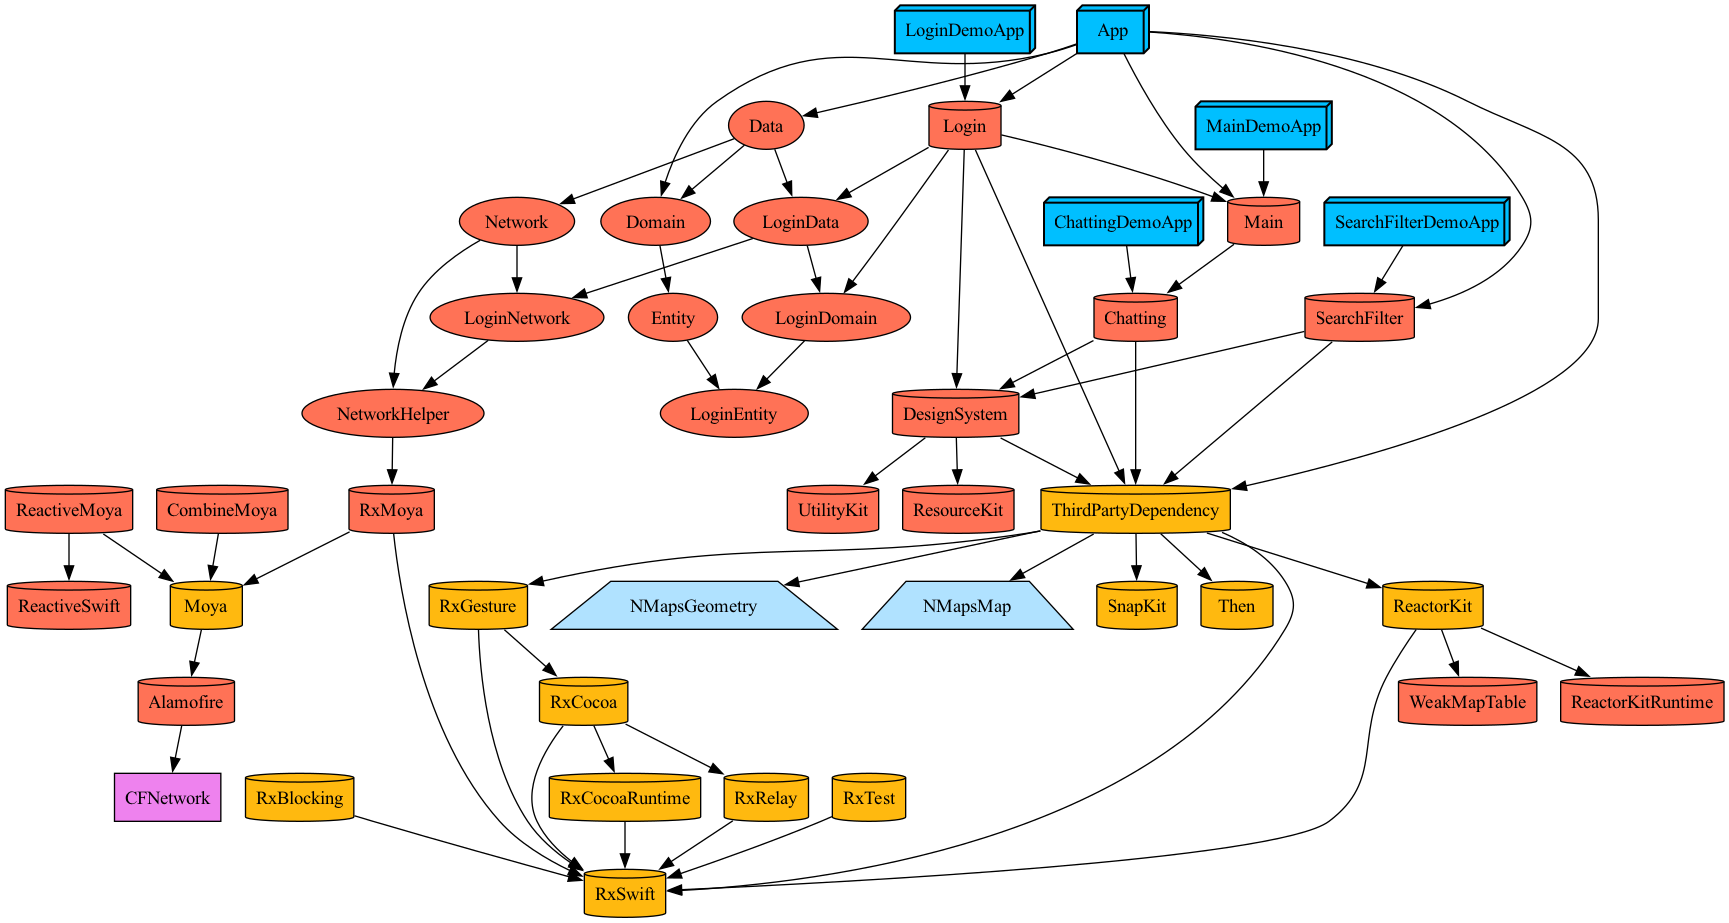
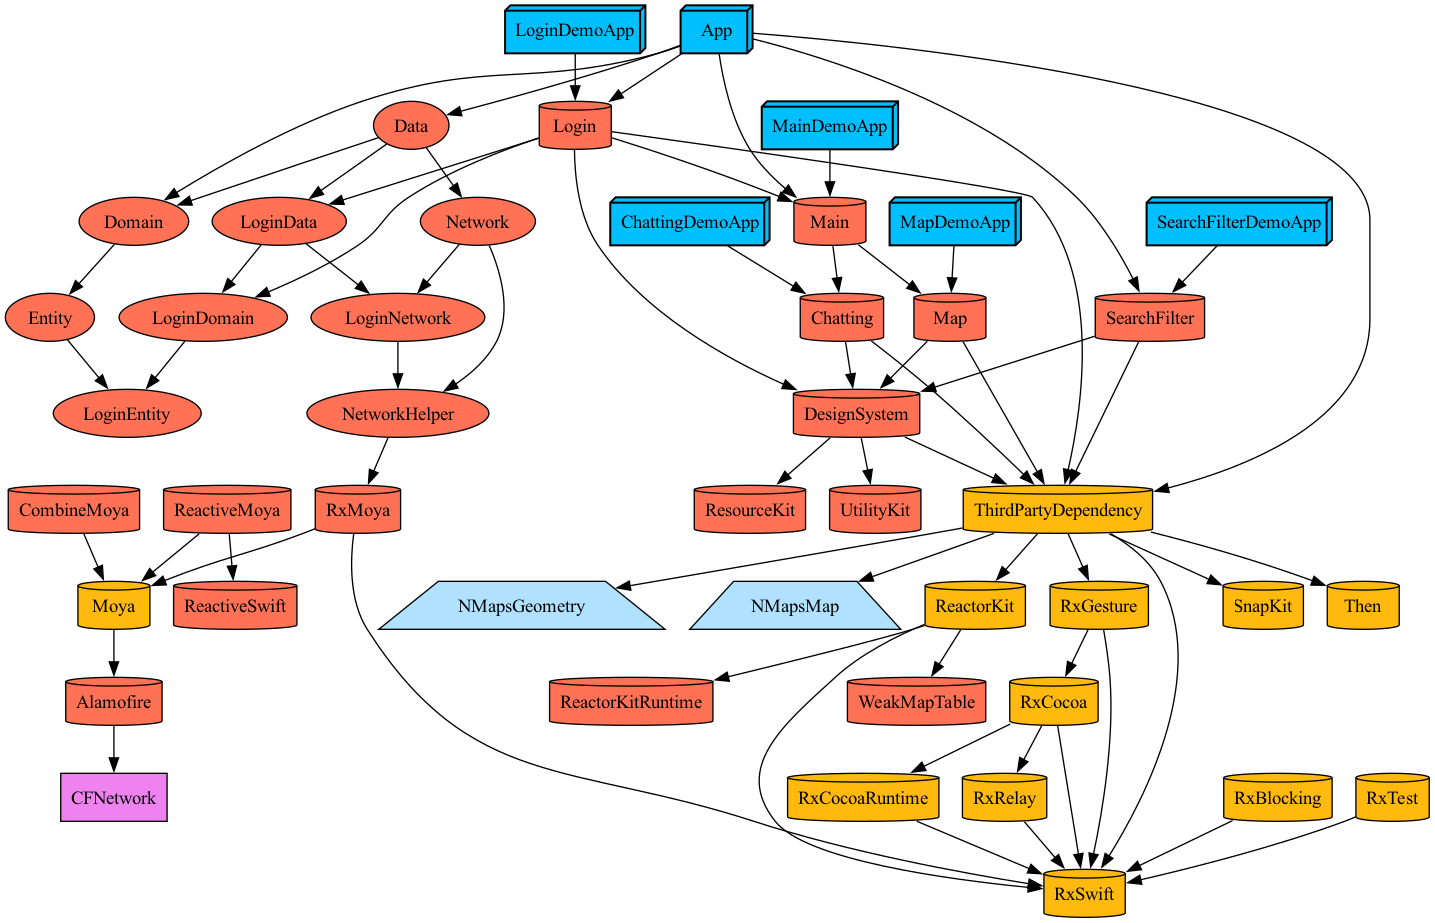
[Setting] Map 모듈 추가

diff --git a/Feature/Map/Sources/MapView.swift b/Feature/Map/Sources/MapView.swift
@@ -1,0 +1,60 @@
+//
+//  MapView.swift
+//  Map
+//
+//  Created by 구본의 on 2023/12/28.
+//
+
+import UIKit
+
+import ResourceKit
+import UtilityKit
+
+import SnapKit
+import Then
+
+final class MapView: UIView {
+	// MARK: - TextSet
+	private enum TextSet {
+		static let titleText: String = "Map View"
+	}
+	
+	// MARK: - UI Property
+	private let titleLabel: UILabel = UILabel().then {
+		$0.text = TextSet.titleText
+		$0.font = AppTheme.Font.Bold_24
+	}
+	
+	// MARK: - Iitialize
+	override init(frame: CGRect) {
+		super.init(frame: frame)
+		setupConfigures()
+		setupViews()
+	}
+	
+	required init?(coder: NSCoder) {
+		fatalError("init(coder:) has not been implemented")
+	}
+}
+
+extension MapView: Viewable {
+	func setupConfigures() {
+		backgroundColor = AppTheme.Color.white
+	}
+	
+	func setupViews() {
+		addSubview(titleLabel)
+		
+		setupConstraints()
+	}
+	
+	func setupConstraints() {
+		titleLabel.snp.makeConstraints { make in
+			make.center.equalToSuperview()
+		}
+	}
+	
+	func setupBinds() {
+		
+	}
+}

diff --git a/Feature/Map/Project.swift b/Feature/Map/Project.swift
@@ -2,23 +2,24 @@
 //  Project.swift
 //  ProjectDescriptionHelpers
 //
-//  Created by 구본의 on 2023/12/26.
+//  Created by 구본의 on 2023/12/28.
 //
 
 import ProjectDescription
 import ProjectDescriptionHelpers
 
-import FeaturePlugin
+import DesignSystemPlugin
+import ThirdPartyDependencyPlugin
 
-let projectName: String = "Main"
+let projectName: String = "Map"
 let iOSTargetVersion: String = "16.0"
 
 let project = Project.makeFrameworkProject(
   name: projectName,
   iOSTargetVersion: iOSTargetVersion,
   dependencies: [
-    .Feature.Chatting.Main,
-    .Feature.Map.Main
+    .ThirdParty.Main,
+    .DesignSystem.Main
   ],
   isDynamic: false,
   needTestTarget: false,

diff --git a/Plugins/FeaturePlugin/ProjectDescriptionHelpers/Feature+Project.swift b/Plugins/FeaturePlugin/ProjectDescriptionHelpers/Feature+Project.swift
@@ -14,6 +14,7 @@ extension TargetDependency {
     public struct SearchFilter { }
     public struct Main { }
     public struct Chatting { }
+    public struct Map { }
   }
 }
 
@@ -67,4 +68,17 @@ public extension TargetDependency.Feature.Chatting {
   }
   
   static let Main = project(name: "Chatting")
+}
+
+public extension TargetDependency.Feature.Map {
+  static let folderName: String = "Map"
+  
+  static func project(name: String) -> TargetDependency {
+    return .project(
+      target: "\(name)",
+      path: .relativeToRoot("Feature/\(folderName)")
+    )
+  }
+  
+  static let Main = project(name: "Map")
 }

diff --git a/Feature/Map/DemoApp/Sources/MapAppDelegate.swift b/Feature/Map/DemoApp/Sources/MapAppDelegate.swift
@@ -1,0 +1,25 @@
+//
+//  MapAppDelegate.swift
+//  Map
+//
+//  Created by 구본의 on 2023/12/28.
+//
+
+import UIKit
+
+import Map
+
+@main
+class ChattingAppDelegate: UIResponder, UIApplicationDelegate {
+	var window: UIWindow?
+	func application(
+		_ application: UIApplication,
+		didFinishLaunchingWithOptions launchOptions: [UIApplication.LaunchOptionsKey: Any]?
+	) -> Bool {
+		let window = UIWindow(frame: UIScreen.main.bounds)
+		window.rootViewController = MapViewController()
+		window.makeKeyAndVisible()
+		self.window = window
+		return true
+	}
+}

diff --git a/Feature/Chatting/DemoApp/Sources/ChattingDemoAppRootViewController.swift b/Feature/Chatting/DemoApp/Sources/ChattingDemoAppRootViewController.swift
@@ -46,7 +46,7 @@ final class ChattingDemoAppRootViewController: UIViewController {
 			.bind { [weak self] in
 				guard let self else { return }
 				let chattingViewController: ChattingViewController = ChattingViewController()
-				chattingViewController.modalPresentationStyle = .overFullScreen
+				chattingViewController.modalPresentationStyle = .overFullScreen 
 				self.present(chattingViewController, animated: true)
 			}.disposed(by: disposeBag)
 	}

diff --git a/Feature/Map/Sources/MapViewController.swift b/Feature/Map/Sources/MapViewController.swift
@@ -1,0 +1,19 @@
+//
+//  MapViewController.swift
+//  Map
+//
+//  Created by 구본의 on 2023/12/28.
+//
+
+import UIKit
+
+public final class MapViewController: UIViewController {
+	
+	// MARK: - UI Property
+	private let rootView: MapView = MapView()
+	
+	// MARK: LifeCycle
+	public override func loadView() {
+		view = rootView
+	}
+}

diff --git a/Feature/Map/Resources/Resource.swift b/Feature/Map/Resources/Resource.swift
@@ -1,0 +1,10 @@
+//
+//  Resource.swift
+//  ProjectDescriptionHelpers
+//
+//  Created by 구본의 on 2023/12/28.
+//
+
+import Foundation
+
+let source: Int = 10
